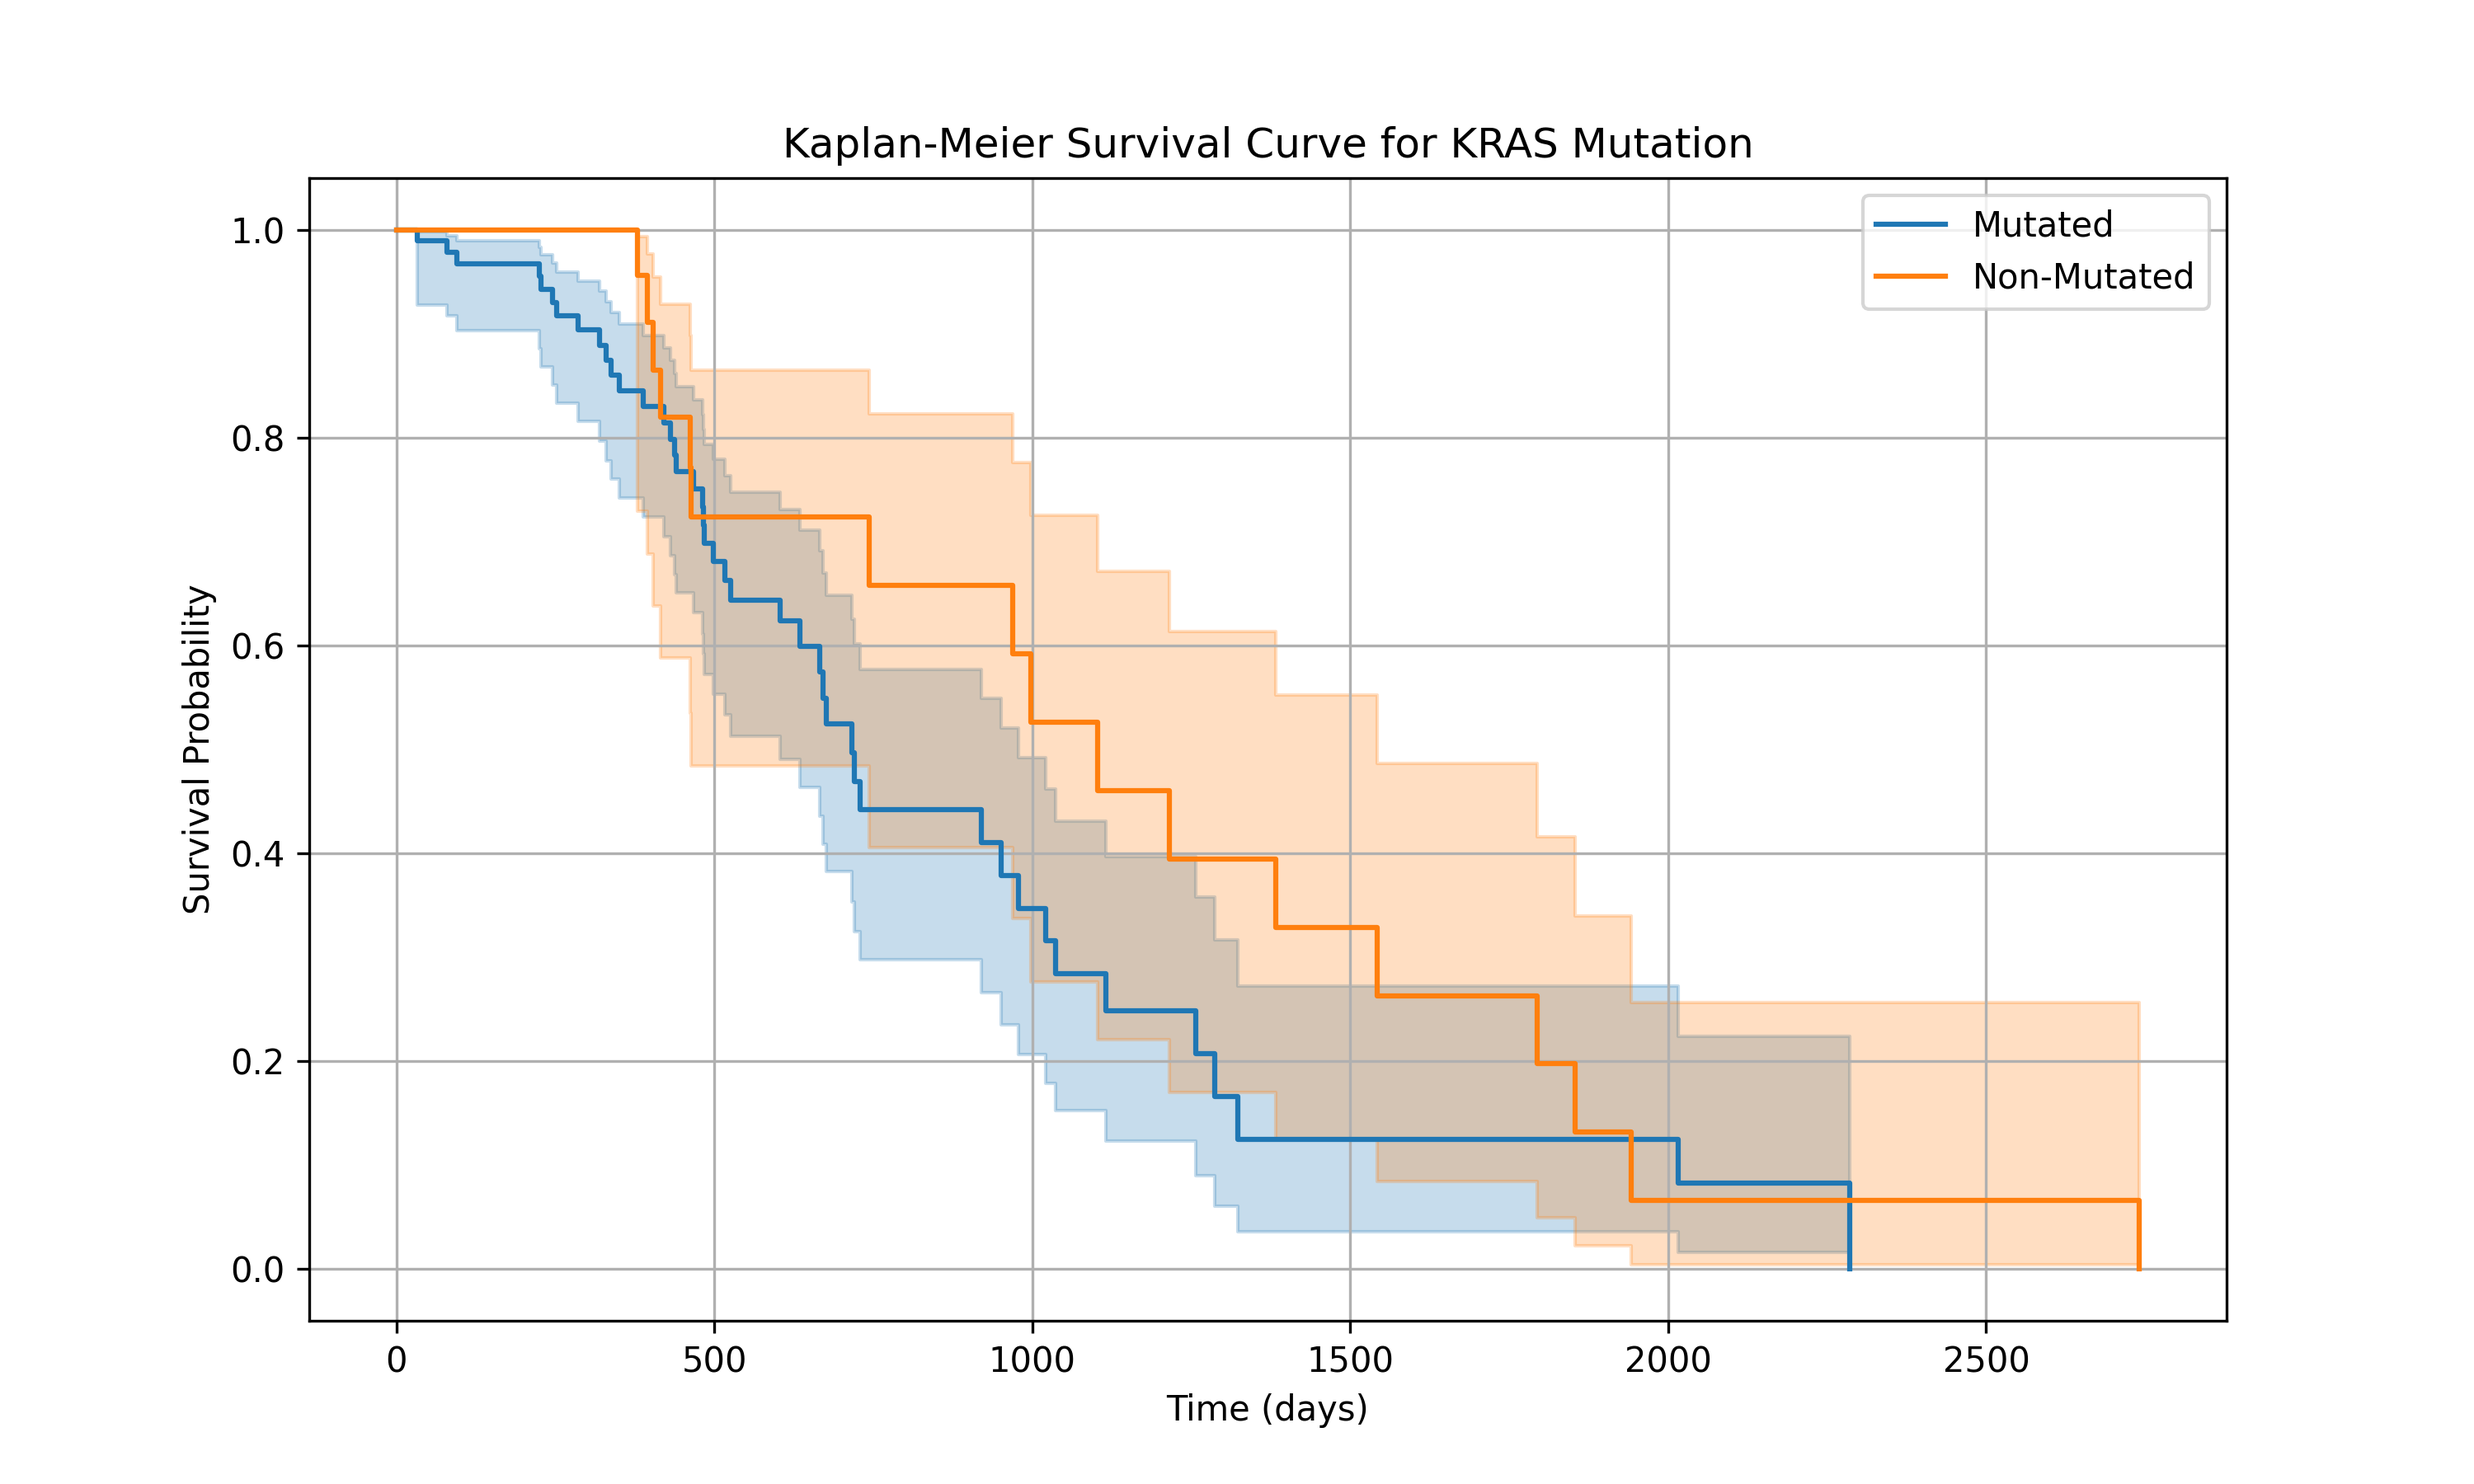
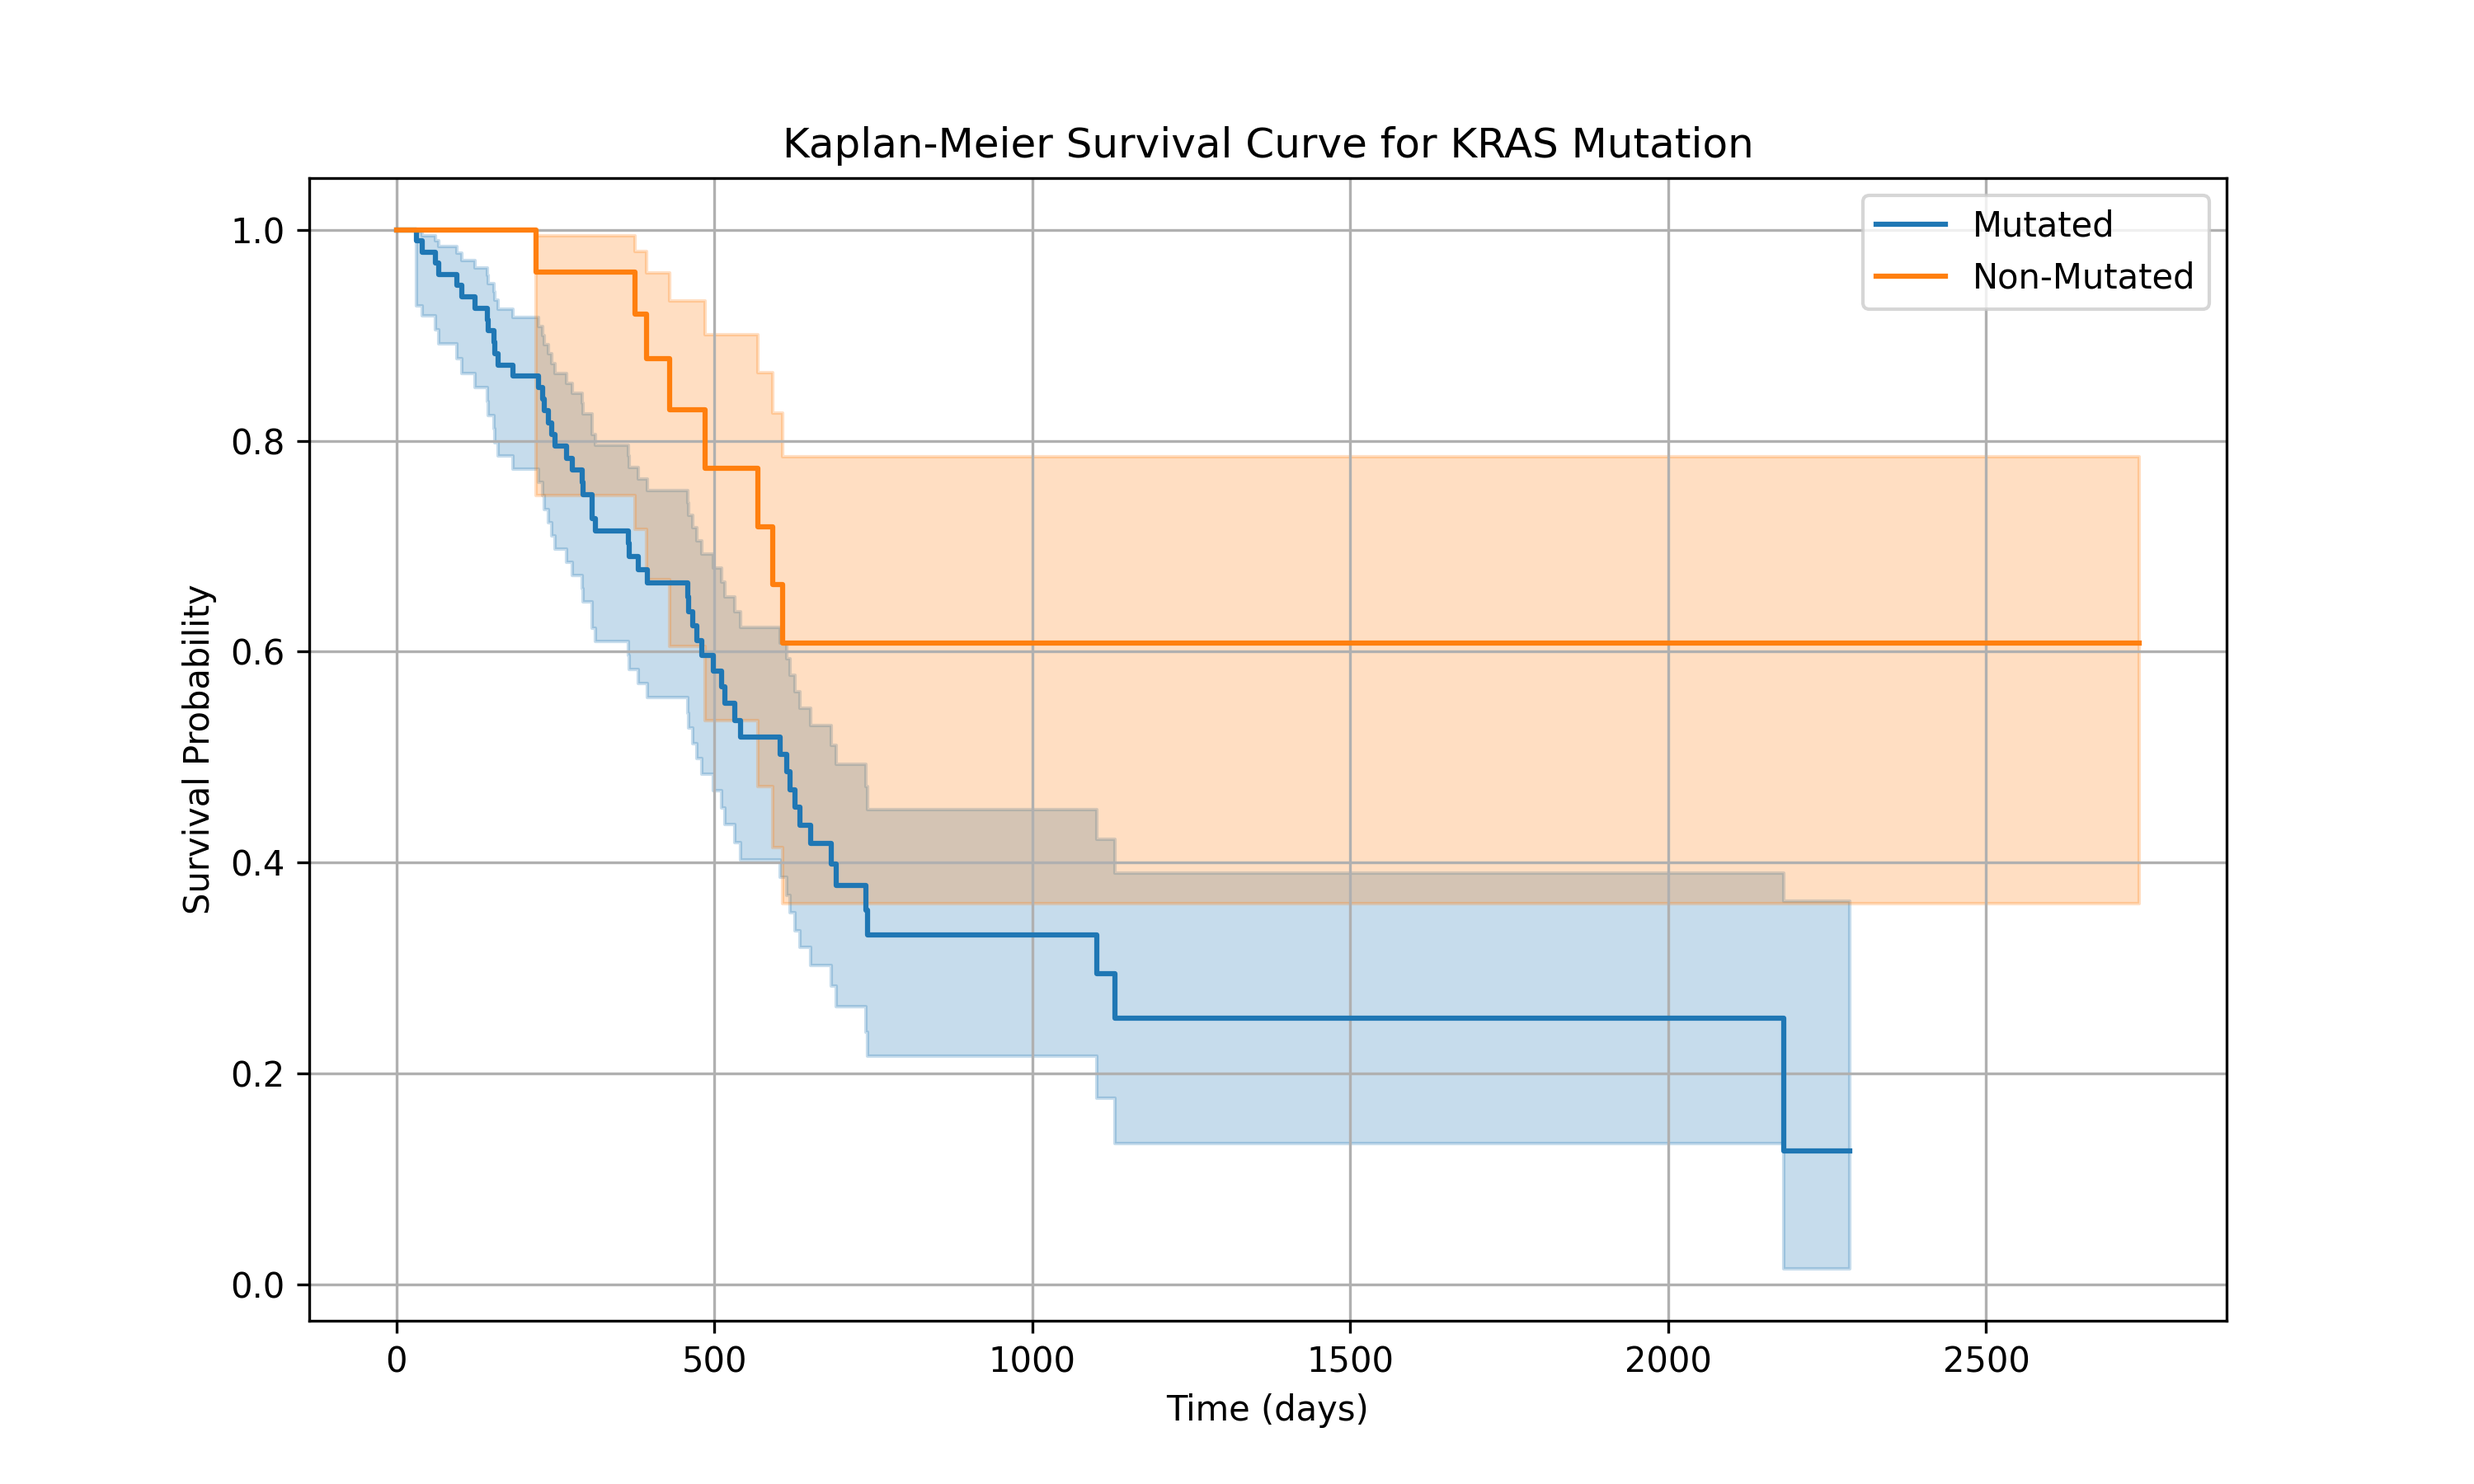
feat: added argument parsing

Changed region(s): [[0.093, 0.1556, 0.899, 0.8711], [0.093, 0.7156, 0.124, 0.7467], [0.093, 0.4356, 0.124, 0.4667]]

diff --git a/src/main.py b/src/main.py
@@ -1,3 +1,4 @@
+import argparse
 import pandas as pd
 import numpy as np
 import os
@@ -9,72 +10,97 @@ from preprocess.config.patient_mappings import PatientMappings
 
 from lifelines import KaplanMeierFitter
 from lifelines.statistics import logrank_test
+from lifelines import CoxPHFitter
 
 import matplotlib.pyplot as plt
 
 from tqdm import tqdm
 
-clinical_data = ClinicalData(Conf.datasets['Clinical'])
-clinical_data.preprocess_data()
+def perform_km_analysis(mutation_data: MutationData):
+    df = mutation_data()
 
-patient_mappings = PatientMappings(clinical_data()['patient_id'])
+    significant_genes = []
+    p_value_threshold = 0.1
+    min_group_size = 20
 
-clinical_data()['pathologic_stage'].isna().sum()
+    output_dir = "../results/km_test"
+    os.makedirs(output_dir, exist_ok=True)
 
-mutation_data = MutationData(Conf.datasets['Mutation'])
-mutation_data.add_stage_data(clinical_data)
-mutation_data.clean_data()
-
-df = mutation_data()
-
-significant_genes = []
-p_value_threshold = 0.1
-min_group_size = 20
-
-output_dir = "../results/km_test"
-os.makedirs(output_dir, exist_ok=True)
-
-for gene in tqdm(mutation_data().columns[1:-3]):
-    
-    mutated = df[df[gene] == 1]
-    non_mutated = df[df[gene] == 0]
-
-    if len(mutated) < min_group_size or len(non_mutated) < min_group_size:
-        continue
-
-    results_logrank = logrank_test(
-        mutated["overall_survival"], non_mutated["overall_survival"],
-        event_observed_A=mutated["status"], event_observed_B=non_mutated["status"]
-    )
-
-    if results_logrank.p_value < p_value_threshold:
-        significant_genes.append({
-            "gene": gene,
-            "mutated_count": len(mutated),
-            "non_mutated_count": len(non_mutated),
-            "mutated_mean_survival (days)": round(mutated['overall_survival'].mean(), 2),
-            "non_mutated_mean_survival (days)": round(non_mutated['overall_survival'].mean(), 2),
-            "p_value": results_logrank.p_value,
-        })
-    
-        kmf = KaplanMeierFitter()
+    for gene in tqdm(mutation_data().columns[1:-3]):
         
-        plt.figure(figsize=(10, 6))
-        kmf.fit(mutated["overall_survival"], event_observed=1-mutated["status"], label="Mutated")
-        kmf.plot_survival_function()
-        
-        kmf.fit(non_mutated["overall_survival"], event_observed=1-non_mutated["status"], label="Non-Mutated")
-        kmf.plot_survival_function()
-        
-        plt.title(f"Kaplan-Meier Survival Curve for {gene} Mutation")
-        plt.xlabel("Time (days)")
-        plt.ylabel("Survival Probability")
-        plt.legend()
-        plt.grid(True)
-        
-        plot_filename = os.path.join(output_dir, f"plots/{gene}_km_curve_paad.png")
-        plt.savefig(plot_filename, dpi=300)
-        plt.close()  
+        mutated = df[df[gene] == 1]
+        non_mutated = df[df[gene] == 0]
 
-significant_genes_df = pd.DataFrame(significant_genes)
-significant_genes_df.to_csv("../results/km_test/significant_genes_paad.csv")
+        if len(mutated) < min_group_size or len(non_mutated) < min_group_size:
+            continue
+
+        results_logrank = logrank_test(
+            mutated["overall_survival"], non_mutated["overall_survival"],
+            event_observed_A=mutated["status"], event_observed_B=non_mutated["status"]
+        )
+
+        if results_logrank.p_value < p_value_threshold:
+            significant_genes.append({
+                "gene": gene,
+                "mutated_count": len(mutated),
+                "non_mutated_count": len(non_mutated),
+                "mutated_mean_survival (days)": round(mutated['overall_survival'].mean(), 2),
+                "non_mutated_mean_survival (days)": round(non_mutated['overall_survival'].mean(), 2),
+                "p_value": results_logrank.p_value,
+            })
+        
+            kmf = KaplanMeierFitter()
+            
+            plt.figure(figsize=(10, 6))
+            kmf.fit(mutated["overall_survival"], event_observed=mutated["status"], label="Mutated")
+            kmf.plot_survival_function()
+            
+            kmf.fit(non_mutated["overall_survival"], event_observed=non_mutated["status"], label="Non-Mutated")
+            kmf.plot_survival_function()
+            
+            plt.title(f"Kaplan-Meier Survival Curve for {gene} Mutation")
+            plt.xlabel("Time (days)")
+            plt.ylabel("Survival Probability")
+            plt.legend()
+            plt.grid(True)
+            
+            plot_filename = os.path.join(output_dir, f"plots/{gene}_km_curve_paad.png")
+            plt.savefig(plot_filename, dpi=300)
+            plt.close()  
+
+    significant_genes_df = pd.DataFrame(significant_genes)
+    significant_genes_df.to_csv("../results/km_test/significant_genes_paad.csv")
+
+def perform_cox_regression(mutation_data: MutationData):
+    output_dir = "../results/cox_regression"
+    os.makedirs(output_dir, exist_ok=True)
+
+    cph = CoxPHFitter(penalizer=0.1)
+    cph.fit(mutation_data().drop(['patient_id'], axis=1), show_progress=True, duration_col="overall_survival", event_col="status")
+    cph.summary.to_csv(os.path.join(output_dir, "results.csv"))
+
+    cph.check_assumptions(mutation_data().drop(['patient_id'], axis=1), p_value_threshold=0.05)
+
+if __name__ == "__main__":
+    parser = argparse.ArgumentParser(description="Perform Kaplan-Meier analysis on mutation data.")
+    parser.add_argument("-k", "--km", action="store_true", help="Run the Kaplan-Meier analysis.")
+    parser.add_argument("-c", "--cx", action="store_true", help="Run the Cox-Regression analysis.")
+    args = parser.parse_args()
+
+    clinical_data = ClinicalData(Conf.datasets['Clinical'])
+    clinical_data.preprocess_data()
+
+    patient_mappings = PatientMappings(clinical_data()['patient_id'])
+
+    clinical_data()['pathologic_stage'].isna().sum()
+
+    mutation_data = MutationData(Conf.datasets['miRNA'])
+    mutation_data.add_stage_data(clinical_data)
+    mutation_data.clean_data()
+
+    if args.km:
+        print("Starting Kaplan-Meier analysis...")c
+        perform_km_analysis(mutation_data)
+    elif args.cx:
+        print("Starting Cox-Regression analysis...")
+        perform_cox_regression(mutation_data)

diff --git a/src/preprocess/config/config.py b/src/preprocess/config/config.py
@@ -2,7 +2,8 @@ class Conf:
     datasets = {
         "Clinical": '../data/Clinical.csv', 
         "RNAseq": '../data/RNAseq.csv', 
-        "Mutation": '../data/Mutation.csv'
+        "Mutation": '../data/Mutation.csv',
+        "miRNA": '../data/miRNA.csv'
     }
 
     
